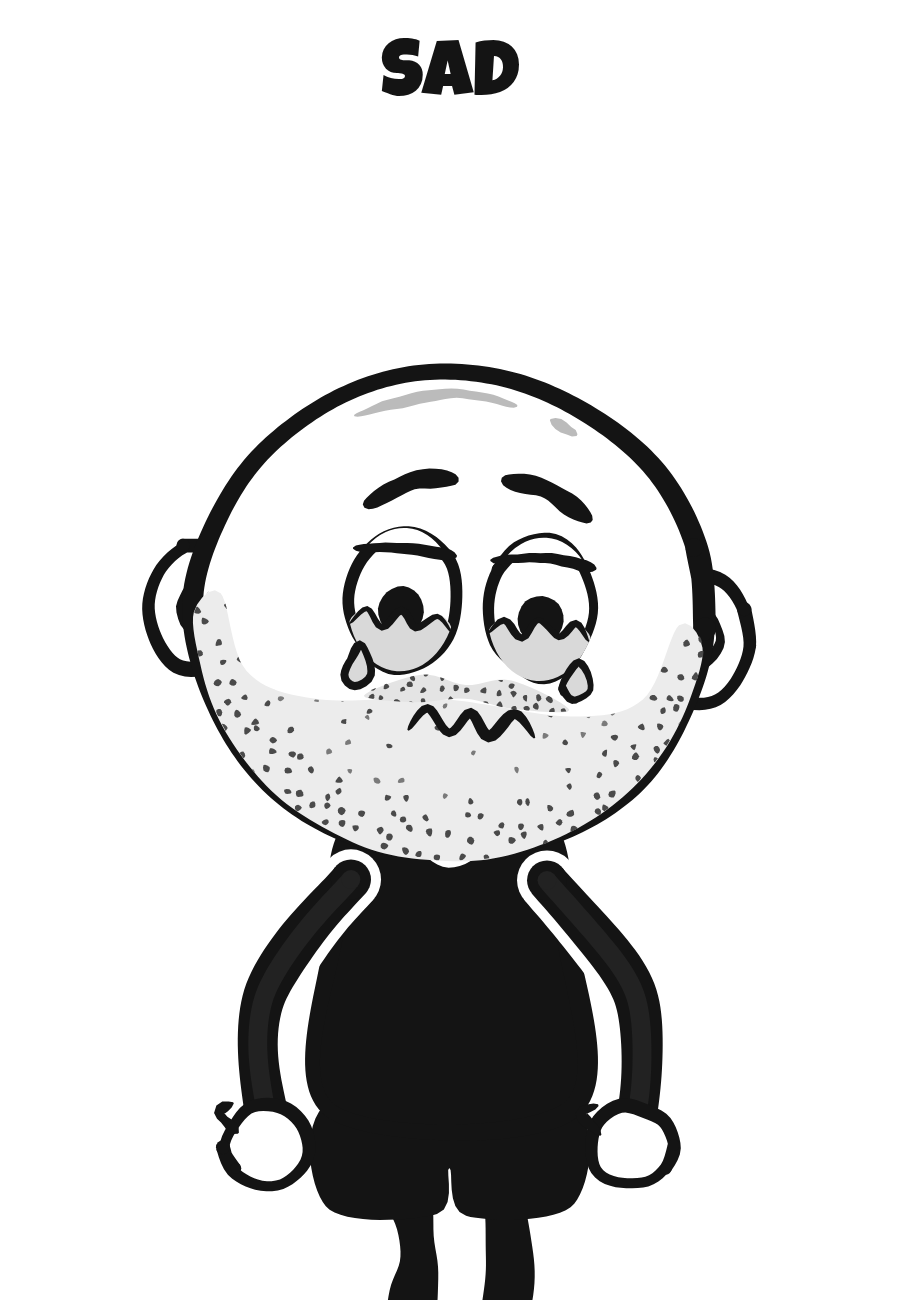
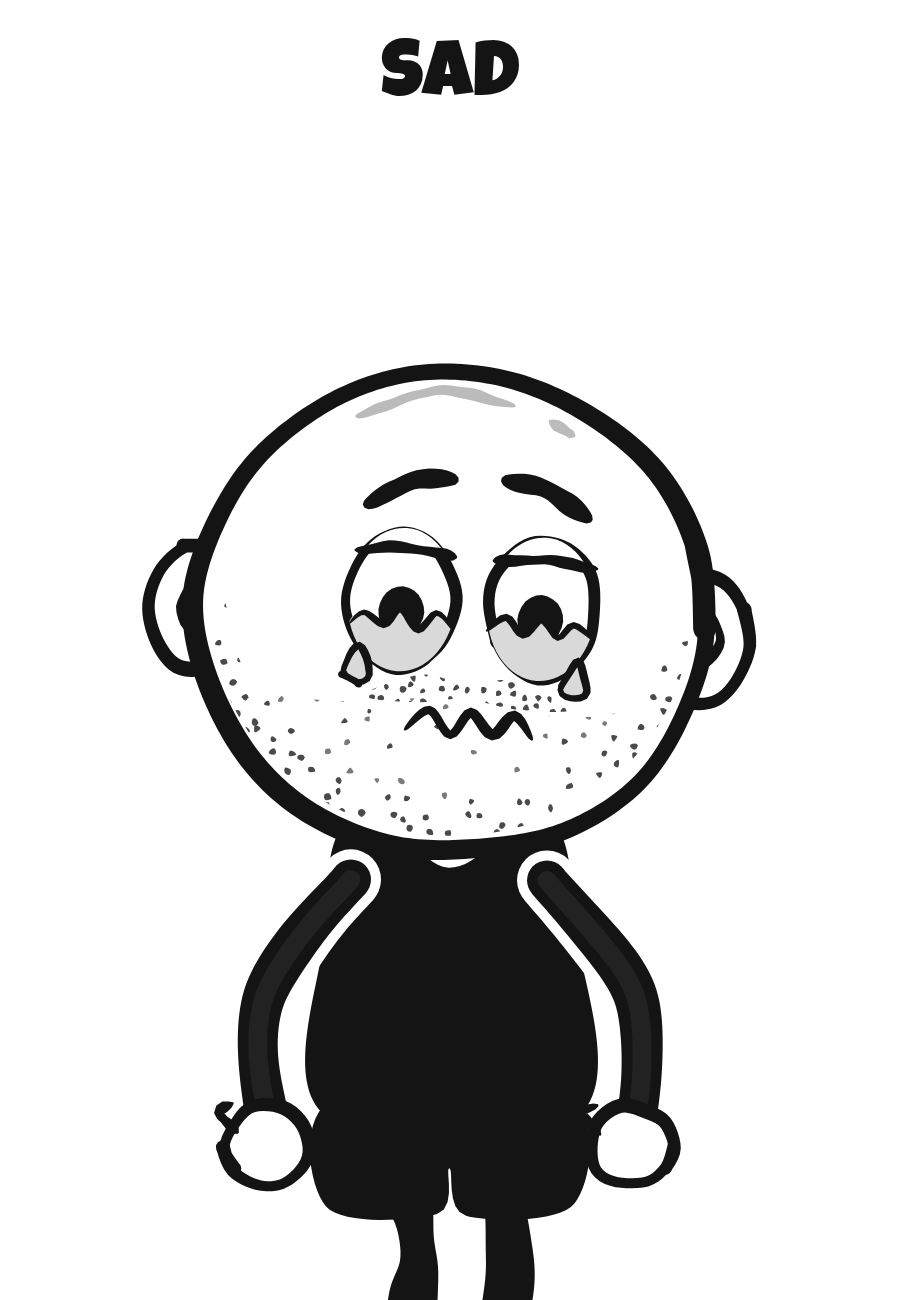
Extinct: fix art review round 2 majors
Lean and head tilt stay on through each shot (no pop, no edge clip at shot
ends). Slime's stubble is dots on skin only, inside an intact jaw outline,
and he looks across toward Nick. Big/sparkle pupils shrink so the eyeline
reads across the frame. Ludwig's yell is a big open mouth held through the
line, driven by loudness, with jaw drop, head stretch and tip. The raptor's
head and jaws loom in behind Nick's shoulder with its body cropped off the
right. The mammoth gets pillar legs under its body; the prehistoric front
row is spaced. Minors: captions never hold across a cut; the two-shot is
only the point (Nick's reply is a single); dodo and fish stand on the
ground line; the ending narrows Slime's scale and varies the arm poses.

Claude-Session: https://claude.ai/code/session_01BoxvgZ1TpRreVfD9rN3XD5

diff --git a/web/skits/extinct.js b/web/skits/extinct.js
@@ -34,7 +34,8 @@ Skits.extinct = (() => {
     [22.2, 23.2, SLIME, 'thats why he sent\nthe meteor'],
   ];
   // a caption holds through gaps under 0.15 s so it doesn't blink off between lines
-  const line = t => LINES.find(([a, b], i) => t >= a && (t < b || (LINES[i + 1] && t < LINES[i + 1][0] && LINES[i + 1][0] - b < 0.15)));
+  const cutIn = (a, b) => shots.some(([s0]) => s0 > a && s0 <= b);   // a shot cut inside (a, b]
+  const line = t => LINES.find(([a, b], i) => t >= a && (t < b || (LINES[i + 1] && t < LINES[i + 1][0] && LINES[i + 1][0] - b < 0.15 && !cutIn(b, t))));
   // lip sync for whoever is talking in [a, b]
   const talk = (t, a, b, text, o) => say(t, a, b, text.replace(/\n/g, ' ').replace(/\*/g, 'u'), o);
   const talkLine = (t, i, o) => talk(t, LINES[i][0], LINES[i][1], LINES[i][3], o);
@@ -199,10 +200,12 @@ Skits.extinct = (() => {
     return (hh(b + seed * 17) > 0.5 ? 1 : -1) * (0.8 + 0.2 * hh(b + 3));   // always a clear bend
   }
   function acting(p, t, seed) {
-    const base = { bob: Math.sin(t * 2.3 + seed) * 3, weight: stance(t, seed) };
-    if (p.mouth !== 'talk') return base;
-    const beat = Math.floor(t * 1.8 + seed);
-    return { ...base, lean: 0.05 + 0.03 * (hh(beat) - 0.5), tilt: (p.tilt ?? 0) + 0.09 * (hh(beat + 9) - 0.5) };
+    // lean and head tilt are always on (held per beat, changing only on a
+    // beat), so nothing pops when a line starts or ends
+    const beat = Math.floor(t * 1.8 + seed), talking = p.mouth === 'talk';
+    return { bob: Math.sin(t * 2.3 + seed) * 3, weight: stance(t, seed),
+             lean: 0.04 + (talking ? 0.03 * (hh(beat) - 0.5) : 0),
+             tilt: (p.tilt ?? 0) + (talking ? 0.09 * (hh(beat + 9) - 0.5) : 0) };
   }
   // Eyelines: Nick is always screen-left facing right (dir 1), Ludwig always
   // screen-right facing left (dir -1). Never flipped.
@@ -261,7 +264,7 @@ Skits.extinct = (() => {
     if (who === 'nick') sx = Math.max(400, g.half * sc + 40);
     else sx = Math.min(640, 1050 - g.half * sc) - g.offset * sc;
     // eyeline: pupils toward the other character (across the frame), never at camera
-    pose = { ...pose, lookX: Math.max(who === 'nick' ? 0.95 : 0.7, pose.lookX ?? 0), lookY: Math.max(-0.2, Math.min(0.2, pose.lookY ?? 0)) };
+    pose = { ...pose, lookX: Math.max(who === 'nick' ? 0.95 : 0.8, pose.lookX ?? 0), lookY: Math.max(-0.2, Math.min(0.2, pose.lookY ?? 0)), ...((pose.pupil ?? 13) > 11 ? { pupil: 10 } : {}) };
     const wx = who === 'nick' ? NX : LX, wy = FLOOR - g.head * (pose.s ?? S);
     ctx.save(); cam(ctx, wx - (sx - 540) / z, wy, z, sy);
     stage(ctx);
@@ -299,8 +302,8 @@ Skits.extinct = (() => {
       // back row: mammoth (left) and T-rex (right), clear of each other; front row: raptor, dodo
       const pops = [[1.8, 225, 0.8, FLOOR - 70, (x, y) => A.mammoth(ctx, { x, y, s: 0.8, t, eyes: 'happy' })],
                     [2.05, 850, 1.0, FLOOR - 80, (x, y) => A.trex(ctx, { x, y, s: 1.0, t, dir: -1, open: 0.6 * seg(t, 2.3, 2.5) })],
-                    [2.3, 385, 0.85, FLOOR + 120, (x, y) => A.dodo(ctx, { x, y, s: 0.85, t })],
-                    [2.55, 620, 0.85, FLOOR + 130, (x, y) => A.raptor(ctx, { x, y, s: 0.85, t, walk: true })]];
+                    [2.3, 330, 0.85, FLOOR + 120, (x, y) => A.dodo(ctx, { x, y, s: 0.85, t })],
+                    [2.55, 720, 0.85, FLOOR + 130, (x, y) => A.raptor(ctx, { x, y, s: 0.85, t, walk: true })]];
       for (const [t0, x, sc, y, draw] of pops) {
         const k = seg(t, t0, t0 + 0.28);
         if (k > 0) shadow(ctx, x, 110 * sc * Math.min(1, k * 2), y + 6);
@@ -320,9 +323,10 @@ Skits.extinct = (() => {
     [6.0, 7.0, (ctx, t) => mediumNick(ctx, t, { ...E.confused, ...talkLine(t, 4) })],
     // "give me the other option" (points at him) / "why you don't want that?":
     // fastest stretch, and Ludwig points at Nick, so both in one two-shot
-    [7.0, 8.5, (ctx, t) => twoShot(ctx, t,
-      t < 7.72 ? { ...E.confused, mouth: 'flat' } : { ...E.confused, ...Ar.both([172, -236], 'down'), browLiftL: 0, browLiftR: -10, ...talkLine(t, 6) },
-      t < 7.72 ? { ...E.neutral, pointR: -0.25, ...Ar.arm(1, [160, -330], 'down'), ...Ar.arm(-1, [-112, -176], 'out'), ...talkLine(t, 5) } : { ...E.unimpressed, ...Ar.both([112, -176], 'out') })],
+    [7.0, 7.72, (ctx, t) => twoShot(ctx, t, { ...E.confused, mouth: 'flat' },
+      { ...E.neutral, pointR: -0.25, ...Ar.arm(1, [160, -330], 'down'), ...Ar.arm(-1, [-112, -176], 'out'), ...talkLine(t, 5) })],
+    // "why you don't want that?"
+    [7.72, 8.5, (ctx, t) => mediumNick(ctx, t, { ...E.confused, ...Ar.both([172, -236], 'down'), browLiftL: 0, browLiftR: -10, ...talkLine(t, 6) })],
     // "whatever the other option is I'll ... take it": one shot, snapping in on "take it"
     [8.5, 9.45, (ctx, t) => mediumLud(ctx, t, { ...E.smirk, ...Ar.both([90, -200], 'out'), ...talk(t, 8.5, 9.9, "whatever the other option is I'll take it") })],
     // snap in on "take it"
@@ -367,18 +371,19 @@ Skits.extinct = (() => {
       ctx.save(); ctx.translate(0, dy);
       stage(ctx);
       A.wingPig(ctx, { x: 960, y: FLOOR - 700, s: 0.65, t, dir: -1 });
-      shadow(ctx, 950, 55, FLOOR + 44);
-      A.fishLegs(ctx, { x: 950, y: FLOOR + 40, s: 0.8, t, walk: true, dir: -1 });
+      shadow(ctx, 900, 55, FLOOR + 6);
+      A.fishLegs(ctx, { x: 900, y: FLOOR, s: 0.8, t, walk: true, dir: -1 });
       // the dodo stands right at his foot; wind-up, contact at 17.12, then a
       // visible arc off the left edge
       const wind = seg(t, 16.98, 17.08), kick = seg(t, 17.08, 17.14), fly = seg(t, 17.14, 17.5);
       const step = t < 17.08 ? 0.6 * wind : lerp(0.6, -1.5, kick) * (1 - 0.6 * fly);
-      const yell = talkLine(t, 14, { intensity: 1.7 });
-      lud(ctx, { t, x: 640, ...(t < 17.0 ? { ...E.excited, ...talkLine(t, 13, { intensity: 1.4 }) }
-                                          : { ...E.yelling, ...Ar.both([124, -196], 'out'), ...(yell.mouth ? yell : { mouth: 'talk', viz: { kind: 'rest' } }), stretch: 0.5 }),
+      // the yell: big open mouth held for the whole line, following the audio's loudness; jaw drops, head stretches and tips
+      const yellOpen = clamp(0.55 + 0.6 * loud('extinct', t), 0.55, 1);
+      lud(ctx, { t, x: 640, ...(t < 17.0 ? { ...E.excited, pupil: 10, lookX: 0.9, ...talkLine(t, 13, { intensity: 1.4 }) }
+                                          : { ...E.yelling, ...Ar.both([124, -196], 'out'), mouth: 'yell', open: yellOpen, mouthScale: 1.25, stretch: 0.7, tilt: -0.1 }),
                  step, lean: -0.1 * kick * (1 - fly) + 0.05 * wind, ...(t > 16.98 ? { weight: 0 } : {}) });
-      const dodoX = 470;
-      if (fly === 0) { shadow(ctx, dodoX, 70, FLOOR + 10); A.dodo(ctx, { x: dodoX, y: FLOOR + 6, s: 1, t, eyes: kick > 0.5 ? 'blank' : 'normal' }); }
+      const dodoX = 410;
+      if (fly === 0) { shadow(ctx, dodoX, 70, FLOOR + 6); A.dodo(ctx, { x: dodoX, y: FLOOR, s: 1, t, eyes: kick > 0.5 ? 'blank' : 'normal' }); }
       else if (fly < 1) A.dodo(ctx, { x: lerp(dodoX, -250, fly), y: FLOOR - 900 * 4 * fly * (1 - fly * 0.7), s: 1, t, rot: -fly * 8, eyes: 'blank' });
       ctx.restore();
       heads.push(headTop + dy);
@@ -399,13 +404,16 @@ Skits.extinct = (() => {
       ctx.save(); cam(ctx, NX - (sx - 540) / z, FLOOR - GEO.nick.head * S, z, sy);
       stage(ctx);
       const k = seg(t, 19.7, 19.95);
-      if (k > 0) { shadow(ctx, 1060, 190 * k, FLOOR + 30); A.raptor(ctx, { x: 1080, y: FLOOR + 30, s: 2.7 * easeOutBack(k), t, dir: -1, open: t > 19.9 ? 0.8 : 0 }); }   // big, so its head looms above Nick's fists
+      // raptor rears up behind Nick's shoulder: head placed at screen x ~870,
+      // body running off the right edge on purpose
+      const rs = 2.4, headWx = NX - (sx - 540) / z + (870 - 540) / z;
+      if (k > 0) A.raptor(ctx, { x: headWx + 150 * rs, y: FLOOR + 20, s: rs * easeOutBack(k), t, dir: -1, open: t > 19.9 ? 0.8 : 0 });
       nick(ctx, { t, ...E.excited, ...Ar.both([175, -236], 'down'), ...talkLine(t, 18) });   // in front: the raptor rears up behind him; fists kept in, clear of its jaws
       ctx.restore();
       heads.push(sy - hairTop);
     }],
     // "God didn't love velociraptors"
-    [20.7, 21.55, (ctx, t) => { const fy = slimeFloor(); stage(ctx, fy); slime(ctx, { t, y: fy, ...E.unimpressed, lookX: 0, ...Ar.both([110, -176], 'out'), ...talkLine(t, 19) }); heads.push(fy - 574 * 2); }],
+    [20.7, 21.55, (ctx, t) => { const fy = slimeFloor(); stage(ctx, fy); slime(ctx, { t, y: fy, ...E.unimpressed, lookX: -0.8, ...Ar.both([110, -176], 'out'), ...talkLine(t, 19) }); heads.push(fy - 574 * 2); }],
     // raptors frolicking... "thats why he sent the meteor"
     [21.55, 23.02, (ctx, t) => {
       const hit = 22.95;
@@ -444,9 +452,9 @@ Skits.extinct = (() => {
       // through Slime's arms), Slime in front and lower, chest-up
       const k = loud('extinct', t), back = 1400;
       ctx.fillStyle = BACKDROP; ctx.fillRect(-60, -60, 1200, 2040);
-      lud(ctx, { t, x: 790, y: back, s: 1.2, ...E.laughing, open: 0.3 + 0.35 * k, tilt: 0.12 });
-      nick(ctx, { t, x: 295, y: back, s: 1.2, ...E.laughing, open: 0.3 + 0.4 * k });
-      Cameos.slime(ctx, { t, x: 540, y: 1400 + 438 * 2.1, s: 2.1, ...E.laughing, open: 0.35 + 0.45 * k, bob: -8 * k });
+      lud(ctx, { t, x: 790, y: back, s: 1.2, ...E.laughing, open: 0.3 + 0.35 * k, tilt: 0.12, ...Ar.arm(1, [30, -320], 'down', true), ...Ar.arm(-1, [-112, -176], 'out') });
+      nick(ctx, { t, x: 295, y: back, s: 1.2, ...E.laughing, open: 0.3 + 0.4 * k, ...Ar.arm(1, [170, -150], 'down'), ...Ar.arm(-1, [-72, -176], 'out') });
+      Cameos.slime(ctx, { t, x: 540, y: 1331 + 438 * 1.7, s: 1.7, ...E.laughing, open: 0.35 + 0.45 * k, bob: -8 * k });
     }],
   ];
 

diff --git a/web/cameos.js b/web/cameos.js
@@ -695,12 +695,13 @@ const Cameos = (() => {
     const inner = [[RX * 0.9, -RY * 0.02], [RX * 0.78, RY * 0.3], [RX * 0.5, RY * 0.4], [0, RY * 0.36],
                    [-RX * 0.5, RY * 0.4], [-RX * 0.78, RY * 0.3], [-RX * 0.9, -RY * 0.02]];
     const shape = [...outer.reverse(), ...inner];
-    // stubble, not a beard: a faint shadow with dense short dots over it
-    fill(ctx, shape, '#ececec', 0.6);
+    // stubble, not a beard: dots straight on the skin (no tinted patch),
+    // kept inside the head outline so the jaw line stays intact
     ctx.save();
     ctx.beginPath(); ctx.moveTo(shape[0][0], shape[0][1]);
     for (const q of Brush.spline(shape, true, 4)) ctx.lineTo(q[0], q[1]);
     ctx.clip();
+    ctx.beginPath(); ctx.ellipse(0, 0, RX - 9, RY - 9, 0, 0, 7); ctx.clip();
     // dense and dark at the jaw, thinning out toward the cheeks, so there's no hard top edge
     for (let gy = -RY * 0.1; gy < RY * 1.1; gy += 10) for (let gx = -RX; gx < RX; gx += 11) {
       const k = Math.round(gx * 7 + gy * 13);
@@ -714,8 +715,7 @@ const Cameos = (() => {
   const slimeStache = (ctx, fx, rage) => {
     const up = rage ? 16 : 0;   // rides up over the huge open mouth
     const m = [[fx - 58, 50], [fx - 26, 36], [fx, 40], [fx + 26, 36], [fx + 60, 50], [fx + 28, 52], [fx, 48], [fx - 28, 52]].map(([x, y]) => [x, y - up]);
-    // moustache stubble: same faint shadow + dots as the jaw
-    fill(ctx, m, '#e4e4e4', 0.4);
+    // moustache stubble: dots only, like the jaw
     ctx.save();
     ctx.beginPath(); ctx.moveTo(m[0][0], m[0][1]);
     for (const q of Brush.spline(m, true, 3)) ctx.lineTo(q[0], q[1]);

diff --git a/web/animals.js b/web/animals.js
@@ -117,7 +117,14 @@ const Animals = (() => {
   const mammoth = (ctx, p) => place(ctx, p, () => {
     const t = p.t ?? 0, ph = p.walk ? t * 8 : 0;
     const col = '#6e6e6e', dark = '#4a4a4a';
-    for (const [x, o] of [[-90, Math.PI], [70, 0]]) leg(ctx, [x, -110], 110, ph + o, 46, dark, 'hoof');
+    // four straight pillar legs under the body (far pair darker), toenails at the base
+    const pillar = (x, c, o) => {
+      const sw = Math.sin(ph + o) * 14, pts = [[x, -150], [x + sw * 0.5, -70], [x + sw, -4]];
+      stroke(ctx, pts, { w: 60, taper0: 0, taper1: 0, minW: 1, seed: 500 + x });
+      stroke(ctx, pts, { w: 44, taper0: 0, taper1: 0, minW: 1, seed: 500 + x, color: c });
+      for (const d of [-12, 0, 12]) blob(ctx, x + sw + d, -8, 5, 4, { fill: W, w: 3, n: 6 });
+    };
+    pillar(-100, dark, Math.PI); pillar(80, dark, 0); pillar(-60, col, 0); pillar(120, col, Math.PI);
     const body = [];
     for (let i = 0; i < 22; i++) {
       const a = (i / 22) * Math.PI * 2, r = i % 2 ? 1 : 1.06;
@@ -125,7 +132,6 @@ const Animals = (() => {
     }
     shape(ctx, body, col);
     for (let i = 0; i < 8; i++) stroke(ctx, [[-120 + i * 32, -150], [-128 + i * 32, -96]], { w: 5, color: dark });
-    for (const [x, o] of [[-50, 0], [110, Math.PI]]) leg(ctx, [x, -110], 110, ph + o, 46, col, 'hoof');
     // head + trunk
     shape(ctx, Brush.ellipsePts(160, -250, 80, 90, 14), col);
     const sw = Math.sin(t * 4) * 16;
